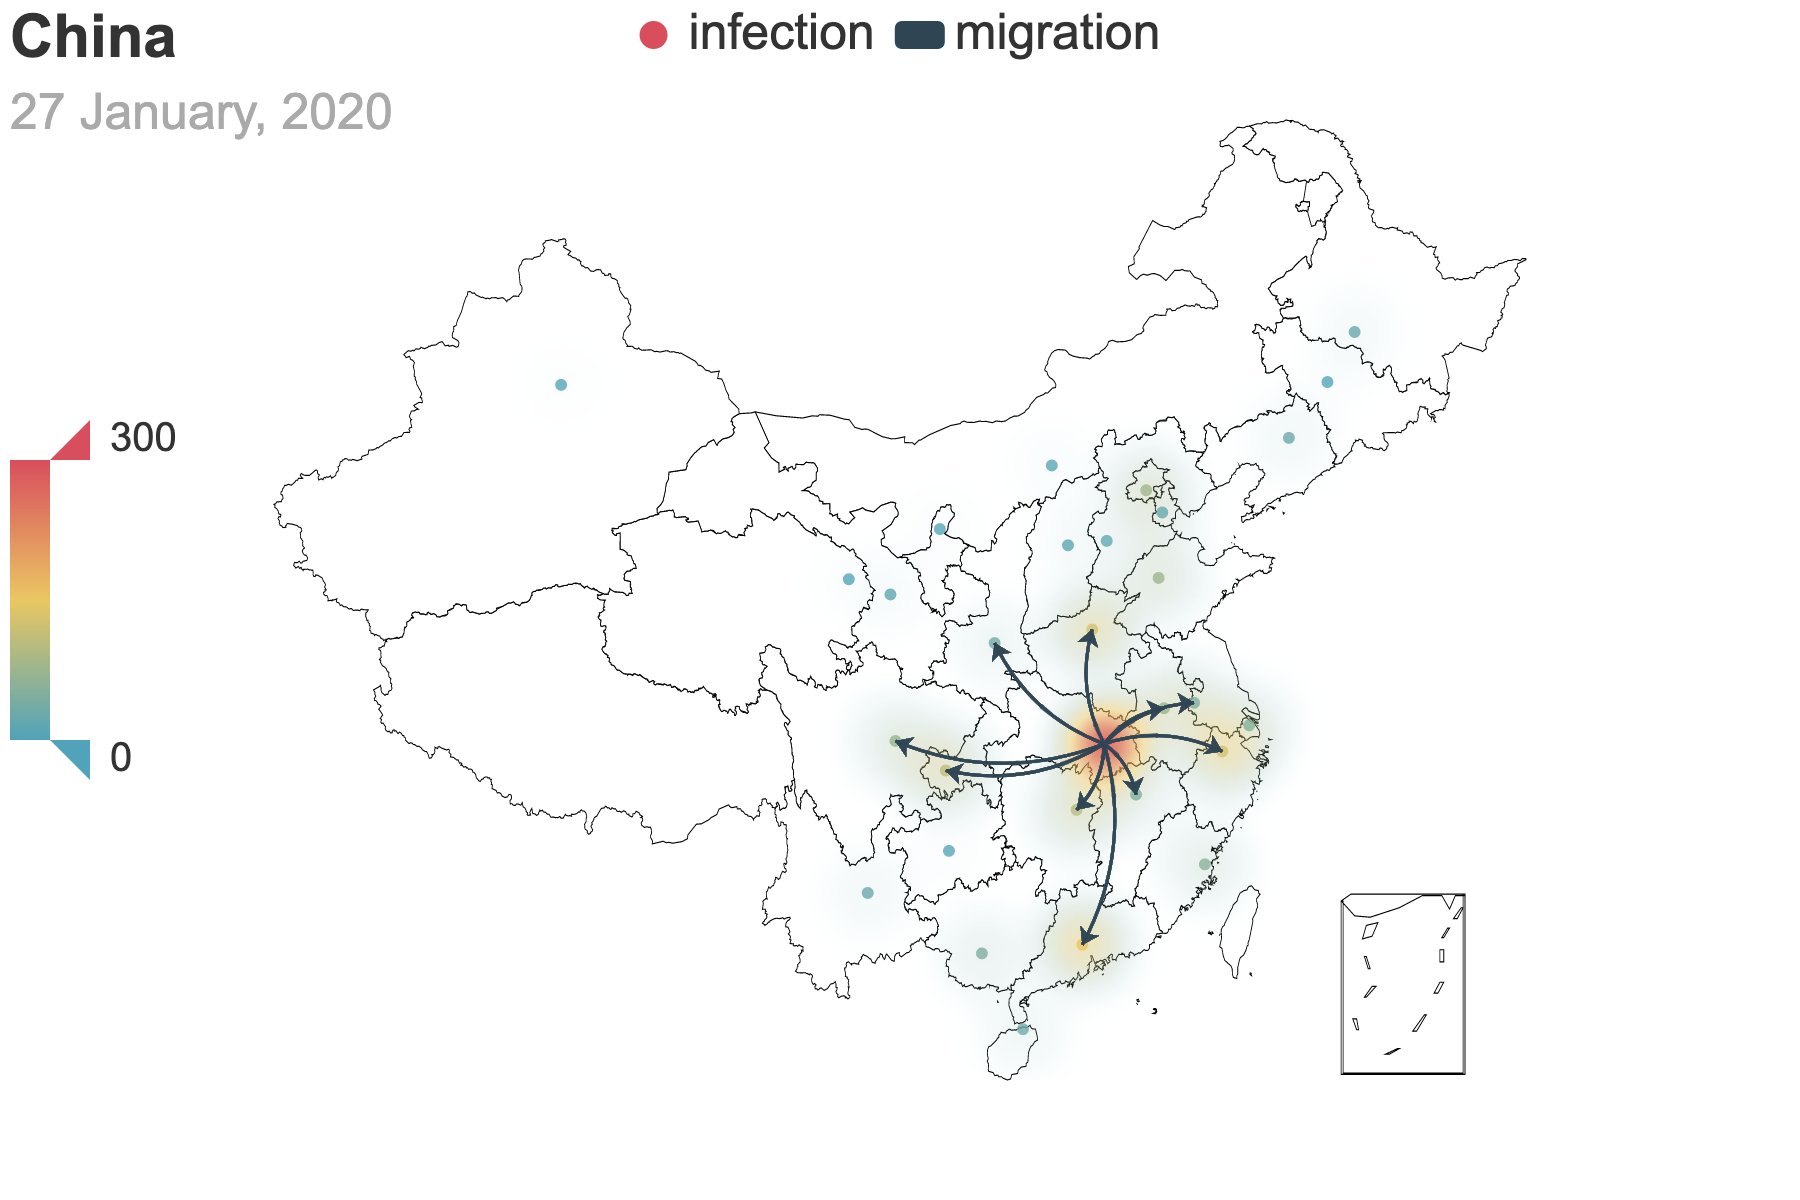
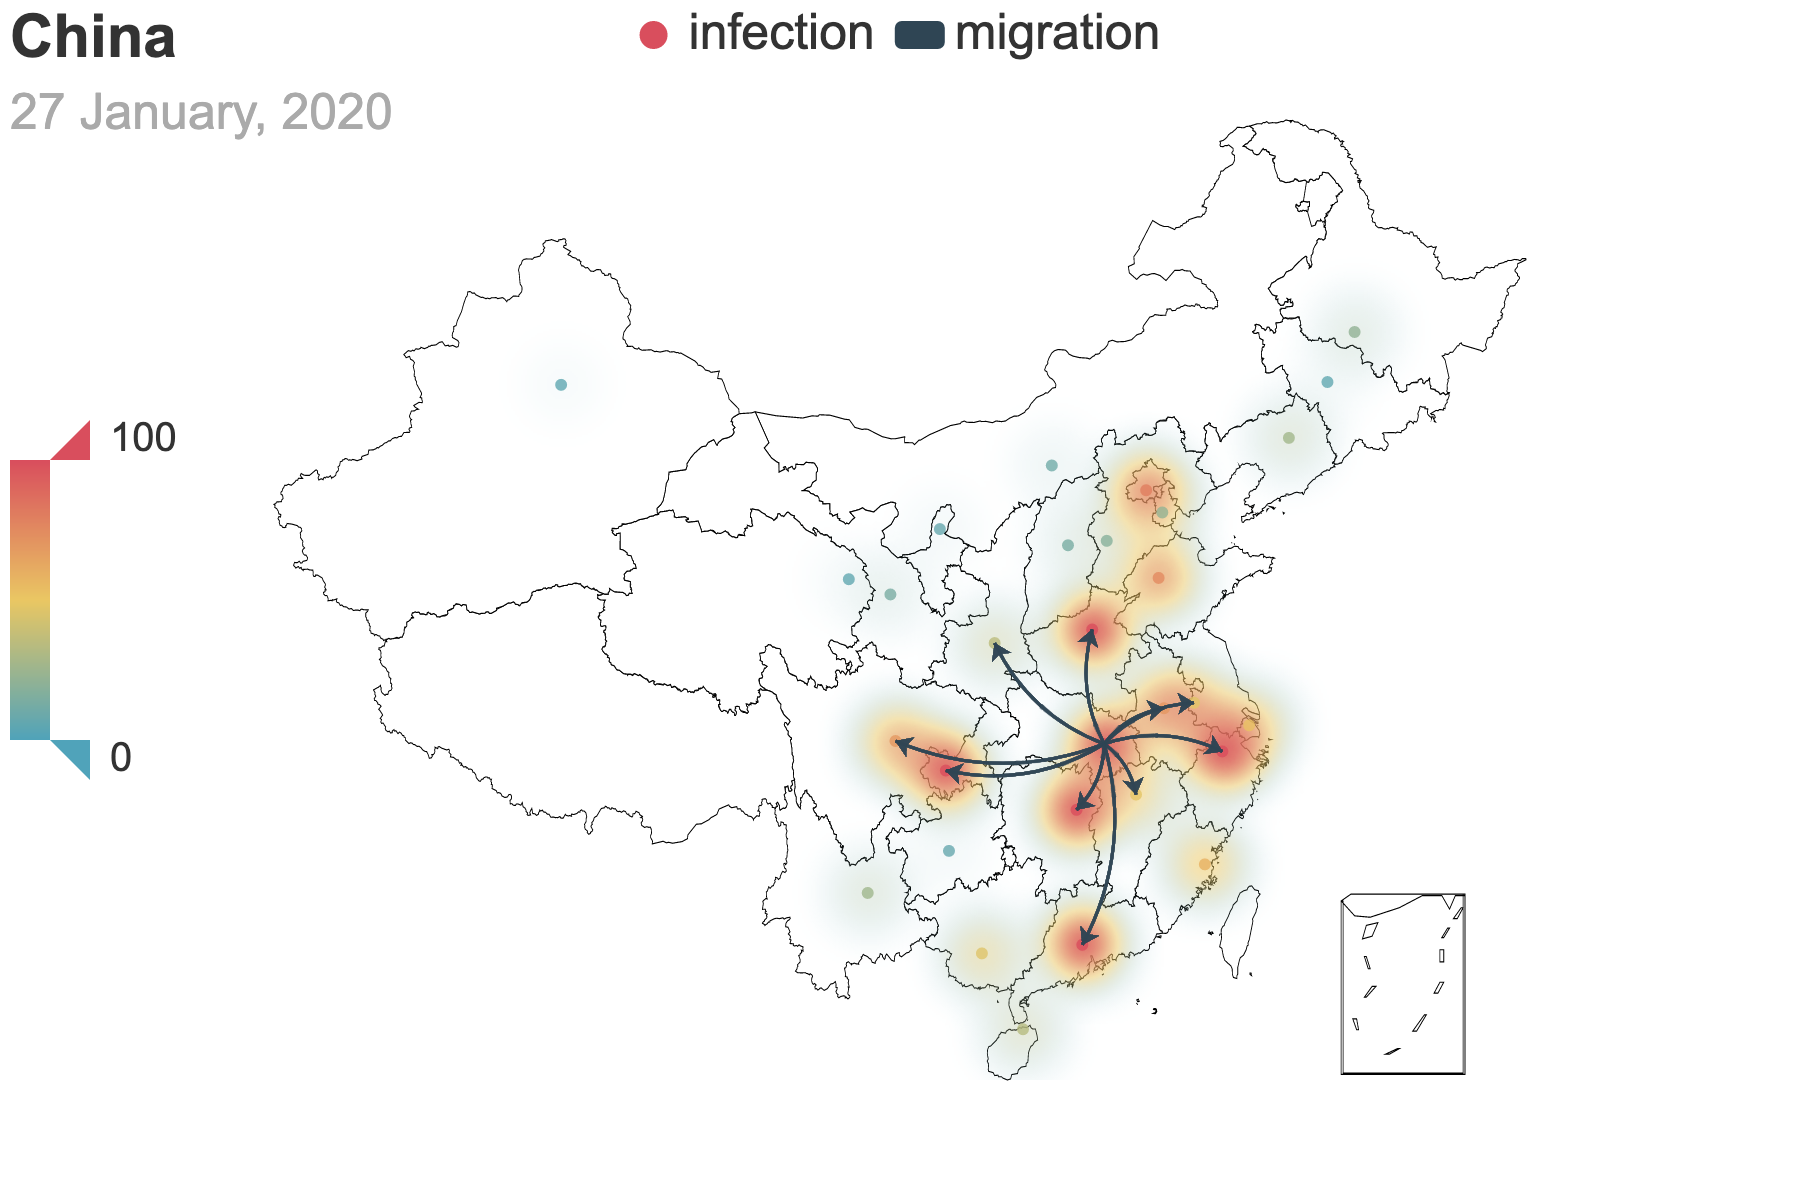
Add files via upload

Changed region(s): [[0.4667, 0.37, 0.7156, 0.7708], [0.5289, 0.74, 0.6533, 0.8633], [0.0622, 0.3392, 0.0933, 0.37]]

diff --git a/covid-19/figures_china/China_heatmap_migration_c.html b/covid-19/figures_china/China_heatmap_migration_c.html
@@ -8,11 +8,11 @@
 
 </head>
 <body>
-    <div id="acd6e640a7b446c281aded0a44622e12" class="chart-container" style="width:900px; height:600px;"></div>
+    <div id="d9bd3c1ba6764c0cab33d09d411abae8" class="chart-container" style="width:900px; height:600px;"></div>
     <script>
-        var chart_acd6e640a7b446c281aded0a44622e12 = echarts.init(
-            document.getElementById('acd6e640a7b446c281aded0a44622e12'), 'white', {renderer: 'canvas'});
-        var option_acd6e640a7b446c281aded0a44622e12 = {
+        var chart_d9bd3c1ba6764c0cab33d09d411abae8 = echarts.init(
+            document.getElementById('d9bd3c1ba6764c0cab33d09d411abae8'), 'white', {renderer: 'canvas'});
+        var option_d9bd3c1ba6764c0cab33d09d411abae8 = {
     "backgroundColor": "#FFFFFF",
     "animation": true,
     "animationThreshold": 2000,
@@ -1649,7 +1649,7 @@
         "show": true,
         "type": "continuous",
         "min": 0,
-        "max": 300,
+        "max": 100,
         "textStyle": {
             "fontSize": 20
         },
@@ -1680,7 +1680,7 @@
         "emphasis": {}
     }
 };
-        chart_acd6e640a7b446c281aded0a44622e12.setOption(option_acd6e640a7b446c281aded0a44622e12);
+        chart_d9bd3c1ba6764c0cab33d09d411abae8.setOption(option_d9bd3c1ba6764c0cab33d09d411abae8);
     </script>
 </body>
 </html>

diff --git a/covid-19/figures_china/China_heatmap_migration.html b/covid-19/figures_china/China_heatmap_migration.html
@@ -8,11 +8,11 @@
 
 </head>
 <body>
-    <div id="9b375164bad6439eb503735362f8c5f0" class="chart-container" style="width:900px; height:600px;"></div>
+    <div id="afc1f2fb4ee64d729a3b381ac5257c47" class="chart-container" style="width:900px; height:600px;"></div>
     <script>
-        var chart_9b375164bad6439eb503735362f8c5f0 = echarts.init(
-            document.getElementById('9b375164bad6439eb503735362f8c5f0'), 'white', {renderer: 'canvas'});
-        var option_9b375164bad6439eb503735362f8c5f0 = {
+        var chart_afc1f2fb4ee64d729a3b381ac5257c47 = echarts.init(
+            document.getElementById('afc1f2fb4ee64d729a3b381ac5257c47'), 'white', {renderer: 'canvas'});
+        var option_afc1f2fb4ee64d729a3b381ac5257c47 = {
     "backgroundColor": "#FFFFFF",
     "animation": true,
     "animationThreshold": 2000,
@@ -804,7 +804,7 @@
         "show": true,
         "type": "continuous",
         "min": 0,
-        "max": 300,
+        "max": 100,
         "textStyle": {
             "fontSize": 20
         },
@@ -835,7 +835,7 @@
         "emphasis": {}
     }
 };
-        chart_9b375164bad6439eb503735362f8c5f0.setOption(option_9b375164bad6439eb503735362f8c5f0);
+        chart_afc1f2fb4ee64d729a3b381ac5257c47.setOption(option_afc1f2fb4ee64d729a3b381ac5257c47);
     </script>
 </body>
 </html>
